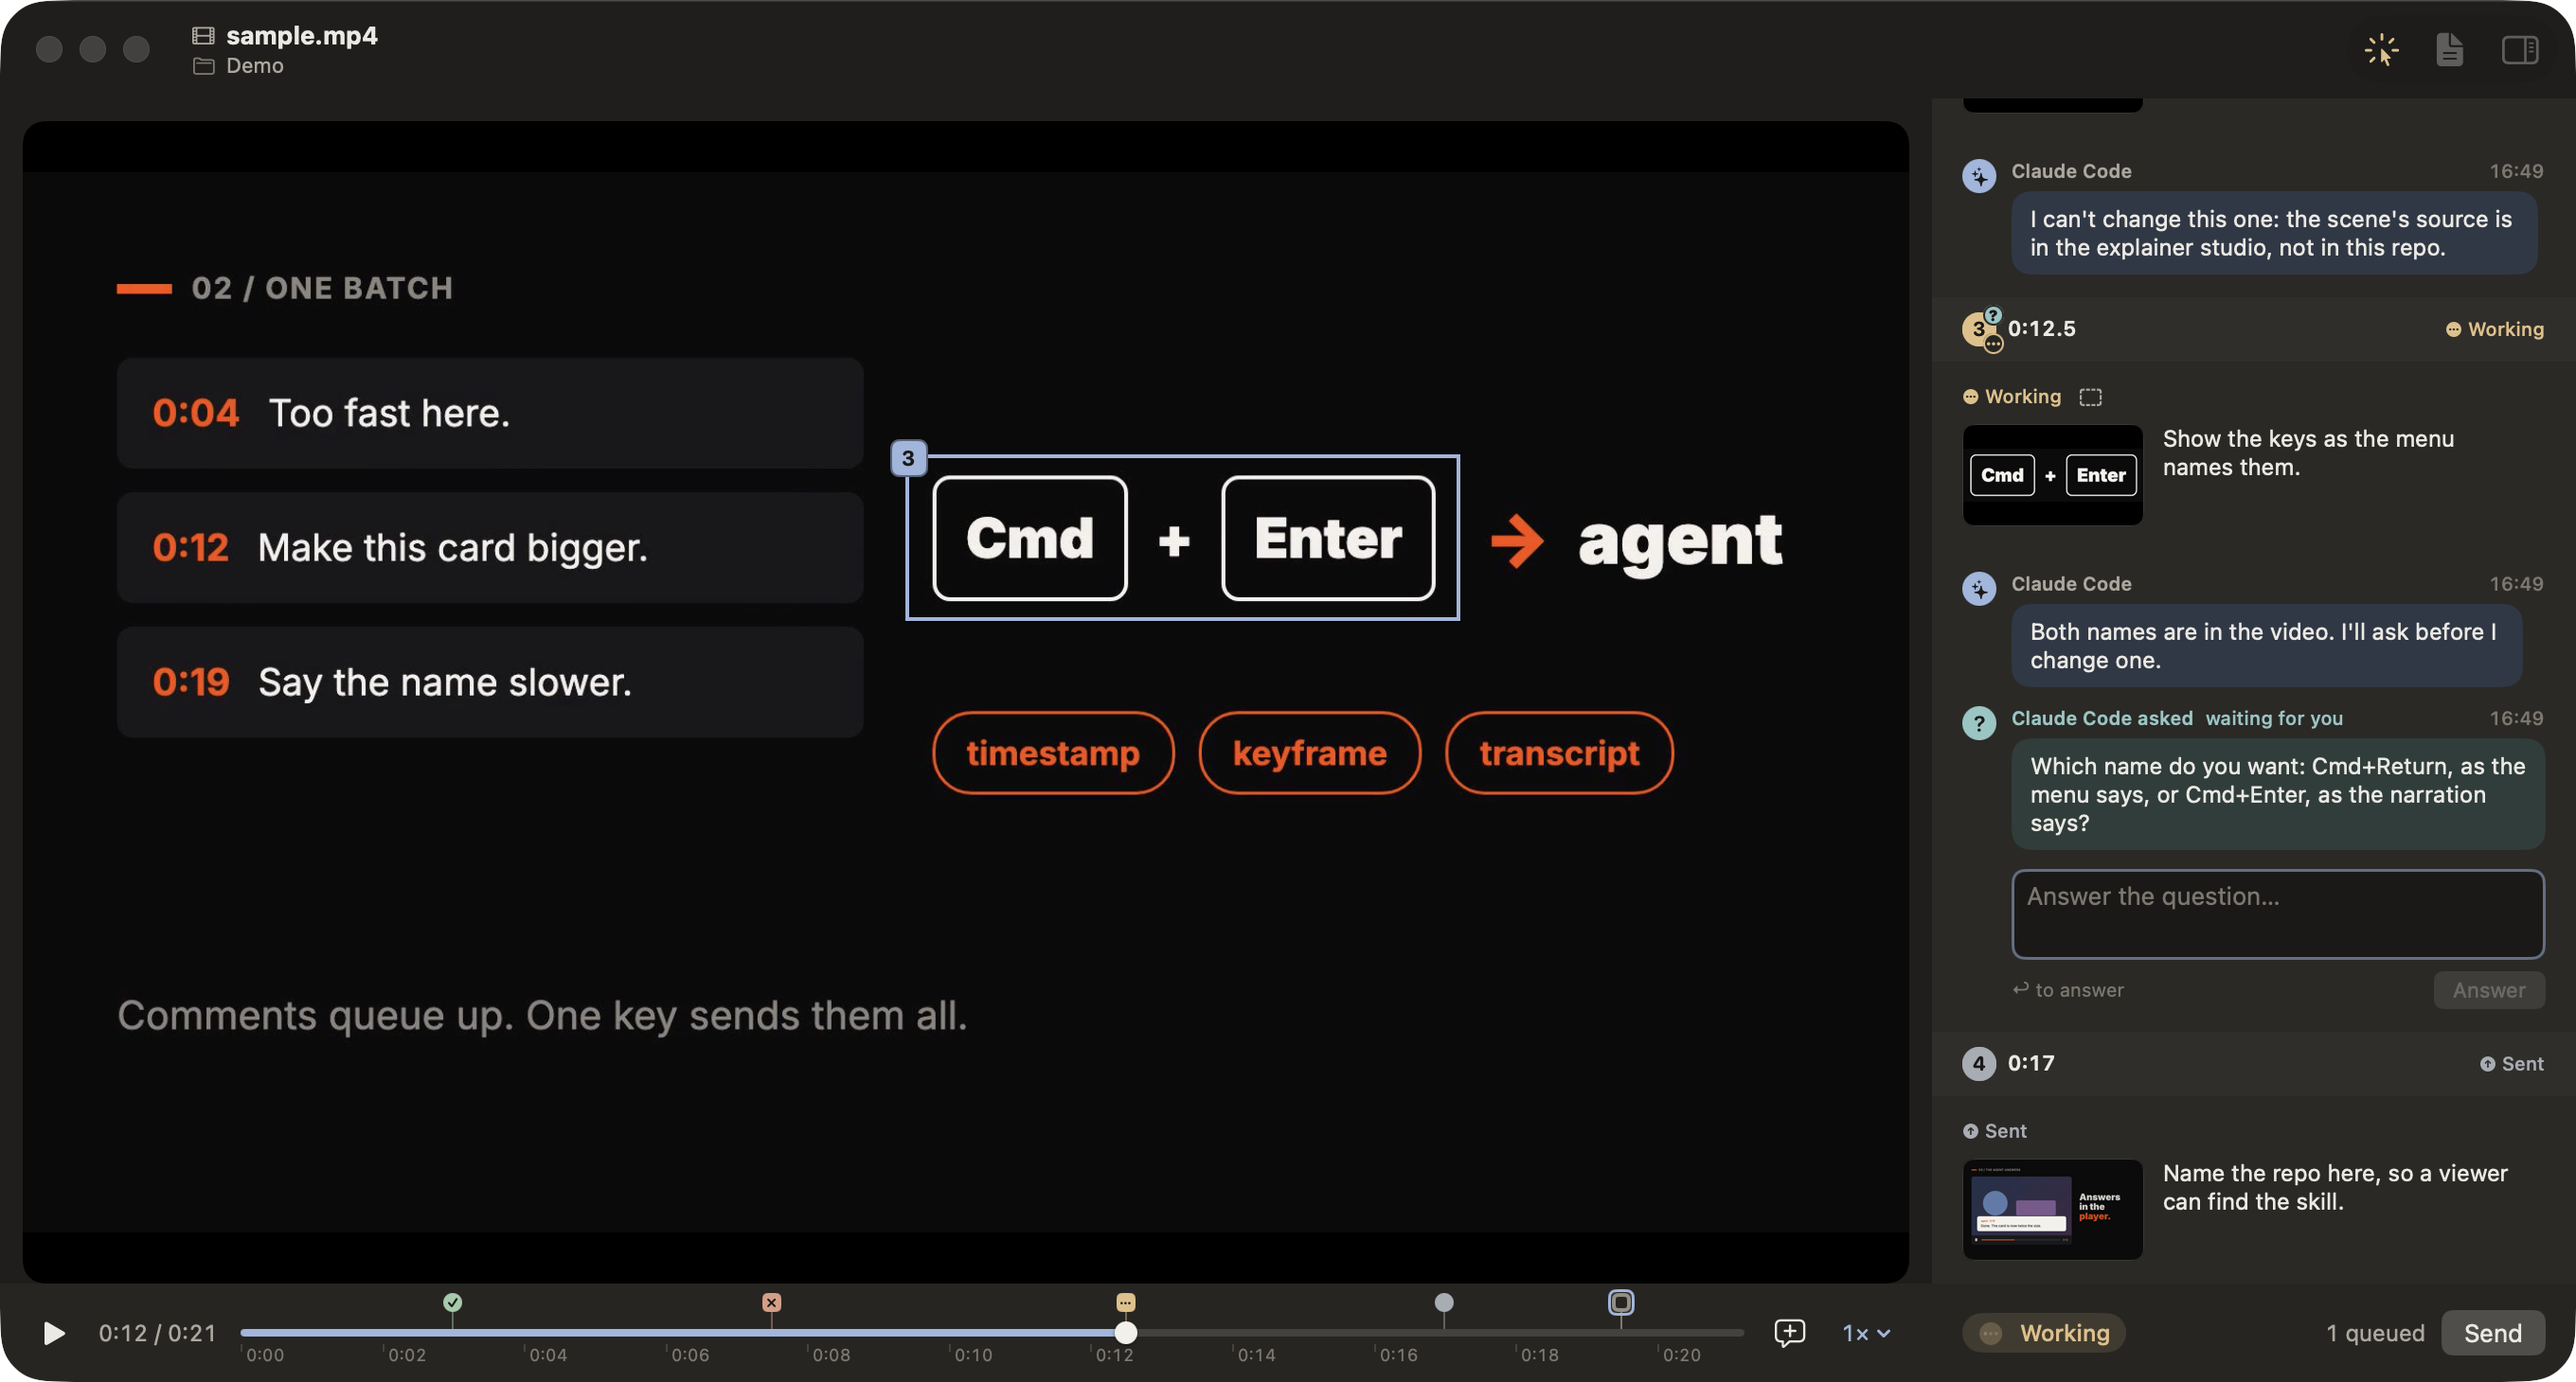
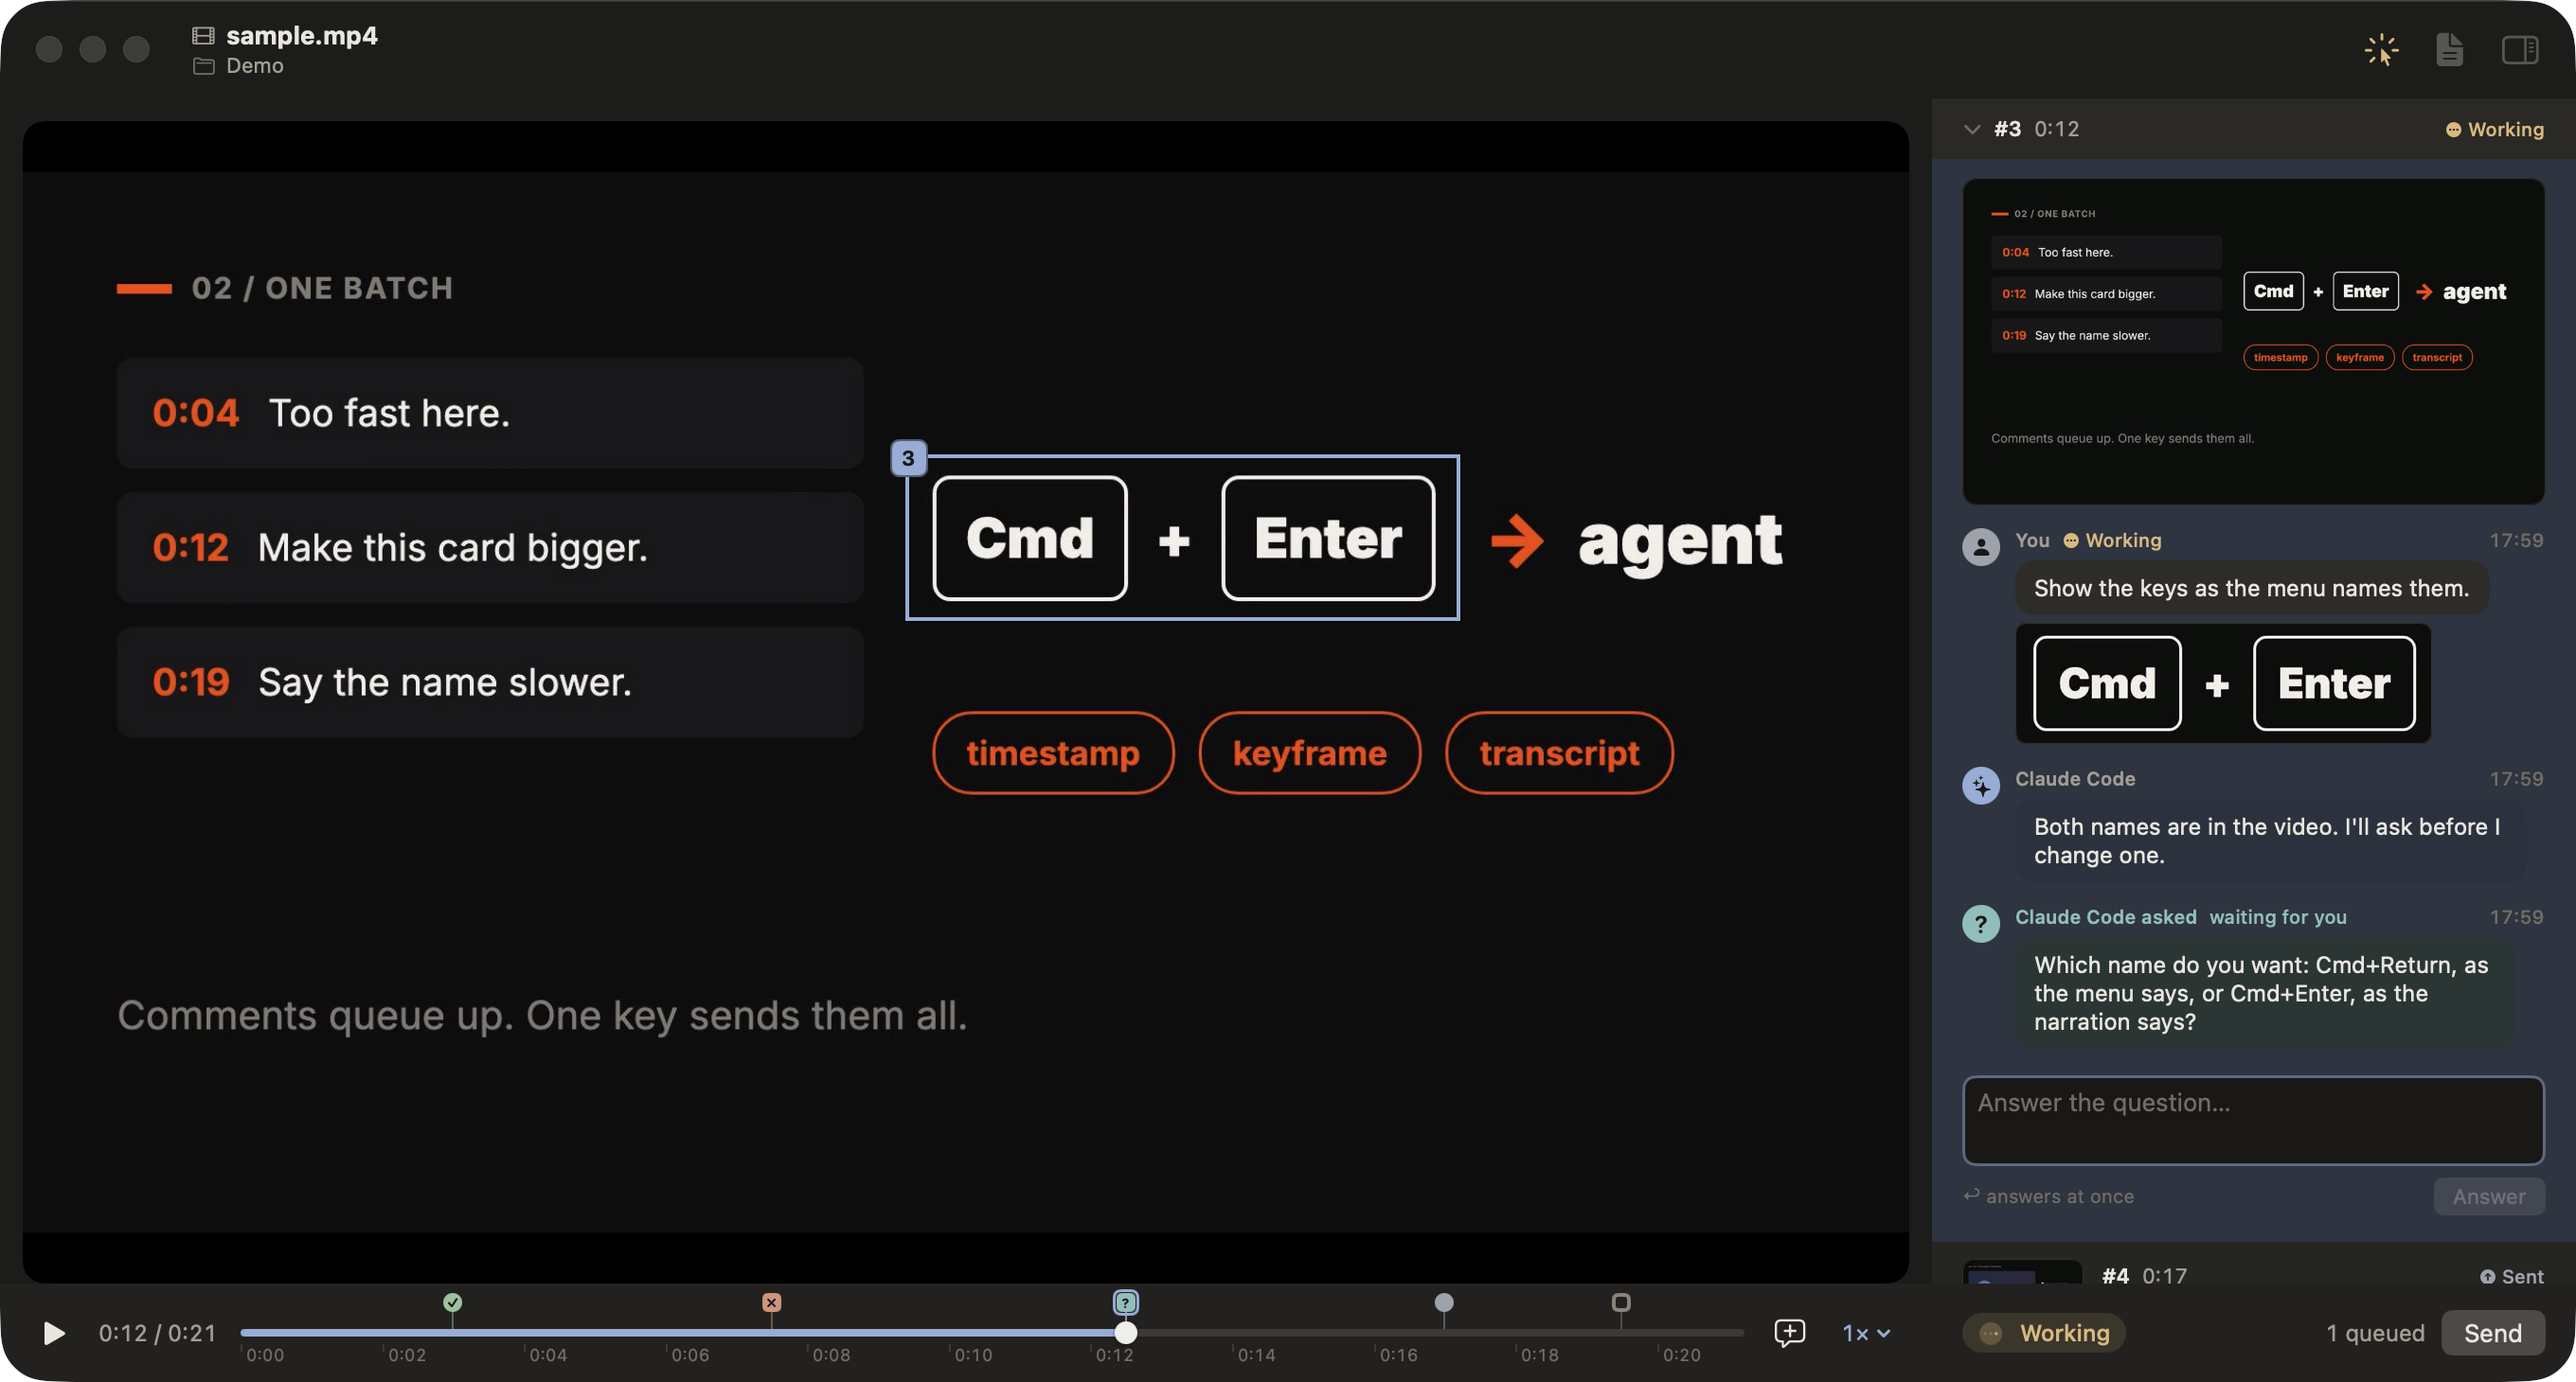
test(control): run the 0.1.0 acceptance scenario and regenerate the gallery
- run make acceptance on the finished build: all 10 steps pass; keep its light and dark pictures in assets/screenshots/0.1.0/acceptance/
- extend scripts/screenshots.sh: one run makes states/ in light and dark and themes/<slug>.png for every built-in theme on the threads scene with thread #3 expanded
- replace the 16 older theme pictures with the 11 new ones; drop header/empty-*, which states/empty-* shows unchanged
- take the comment popover at 1.5 s on the scene's title, not in a cross-fade
- fix a hang: pinning a light theme under a dark system could loop the app at full cpu, as an appkit view and swiftui set the window's appearance in turn; the window now takes a pinned theme's kind through preferredColorScheme
- bring the low-level design in line: the window's colour scheme in rootview, agentcontrolbutton, the screenshots script

Refs #33

Claude-Session: https://claude.ai/code/session_01J53NebLZcD9vziQZBFp4dk

Changed region(s): [[0.75, 0.0616, 1.0, 0.9247]]

diff --git a/Sources/ReviewApp/UI/Palette.swift b/Sources/ReviewApp/UI/Palette.swift
@@ -68,45 +68,3 @@ extension EnvironmentValues {
         set { self[PaletteKey.self] = newValue }
     }
 }
-
-/// Gives the window the appearance of a pinned theme's kind, so the title
-/// bar, the toolbar and the system's controls match a pinned theme that
-/// differs from the system appearance. With no pin (`kind` nil) the window
-/// inherits the app's appearance, which the theme follows already.
-struct WindowAppearance: NSViewRepresentable {
-    let kind: ThemeKind?
-
-    func makeNSView(context: Context) -> Probe {
-        Probe()
-    }
-
-    func updateNSView(_ view: Probe, context: Context) {
-        view.kind = kind
-    }
-
-    final class Probe: NSView {
-        var kind: ThemeKind? {
-            didSet { apply() }
-        }
-
-        override func viewDidMoveToWindow() {
-            super.viewDidMoveToWindow()
-            apply()
-        }
-
-        /// SwiftUI may set the window's appearance back when the app's
-        /// appearance changes (a screenshot in the other appearance): a
-        /// pinned kind is set again.
-        override func viewDidChangeEffectiveAppearance() {
-            super.viewDidChangeEffectiveAppearance()
-            apply()
-        }
-
-        private func apply() {
-            guard let window else { return }
-            let name: NSAppearance.Name? = kind.map { $0 == .dark ? .darkAqua : .aqua }
-            guard window.appearance?.name != name else { return }
-            window.appearance = name.flatMap(NSAppearance.init(named:))
-        }
-    }
-}

diff --git a/Sources/ReviewApp/UI/RootView.swift b/Sources/ReviewApp/UI/RootView.swift
@@ -1,3 +1,4 @@
+import ReviewCore
 import ReviewWire
 import SwiftUI
 
@@ -41,7 +42,13 @@ struct RootView: View {
         .tint(palette[.accent])
         .foregroundStyle(palette[.textPrimary])
         .background(palette[.window])
-        .background(WindowAppearance(kind: model.themes.pinned == nil ? nil : palette.theme.kind))
+        // A pinned theme's kind is the window's appearance, so the title
+        // bar, the toolbar and the system's controls match it when it
+        // differs from the system's. With no pin the window follows the
+        // app's appearance, which the theme follows already. SwiftUI sets
+        // the window's appearance on each update from this preference: an
+        // AppKit view that set it as well fought SwiftUI in a loop.
+        .preferredColorScheme(windowScheme(palette))
         // The window's title stays for the Window menu and VoiceOver; the
         // header draws its own, with icons.
         .navigationTitle(model.video?.title ?? AppIdentity.appName)
@@ -67,6 +74,12 @@ struct RootView: View {
         }
         // Last, so the toolbar and every popover read it too.
         .environment(\.palette, palette)
+    }
+
+    /// The window's colour scheme: a pinned theme's kind, else the app's.
+    private func windowScheme(_ palette: Palette) -> ColorScheme? {
+        guard model.themes.pinned != nil else { return nil }
+        return palette.theme.kind == .dark ? .dark : .light
     }
 
     /// Whether the agent-control icon is in the header: while an agent

diff --git a/docs/low-level-design.md b/docs/low-level-design.md
@@ -209,7 +209,7 @@ Makefile                           test, build, bundle, install, acceptance, cle
 Packaging/Info.plist               the bundle's template (name, bundle id, version stamped by make bundle)
 Packaging/Themes/                  Default Light.json, Default Dark.json, Dimmed.json (the defaults), eight themes from popular VS Code themes (docs/research/2026-10-05-popular-vs-code-themes.md) and NOTICE.md crediting them; copied to Contents/Resources/Themes/
 scripts/acceptance.sh              the 0.1.0 acceptance scenario, CLI only (#33)
-scripts/screenshots.sh             the scene of the pictures in assets/screenshots/0.1.0/
+scripts/screenshots.sh             the 0.1.0 gallery: states/ in light and dark, themes/ one per built-in theme (#33)
 .agents/skills/video-review-mate/  the listener skill (#27)
 fixtures/sample/                   the fixture video and its sidecars
 
@@ -298,9 +298,9 @@ Sources/
       ThemeReport.swift            the theme in `state`, `theme list` and `theme set`
       Screenshotter.swift          the app window through ScreenCaptureKit, in an appearance
     UI/
-      RootView.swift               stage, player bar, sidebar, header; injects the Palette; `SidebarColumn`: the
+      RootView.swift               stage, player bar, sidebar, header; injects the Palette; a pinned theme's kind as the window's colour scheme; `SidebarColumn`: the
                                    threads above the footer, resizable, the width kept in settings, proto-1's spring in and out
-      Palette.swift                the resolved tokens as SwiftUI colours, in the environment; the only way a view gets a colour; the window's appearance for a pinned theme
+      Palette.swift                the resolved tokens as SwiftUI colours, in the environment; the only way a view gets a colour
       Metrics.swift                measures: bar height (= footer height), paddings, sidebar limits; StateLook, a state's glyph and name
       QuietButtonStyle.swift       hover and press feedback for symbol buttons
       MessageEditor.swift          the one text view messages are written in, and its keys
@@ -603,10 +603,10 @@ public struct SupportLayout: Sendable {
 - `ReviewDesk.change(hash) { … }` is proto-2's one path for a change: load or take from memory, run, save, publish when open; a refusal or a failed save changes nothing.
 - `ListenerQueue` is proto-2's with sends: `enqueue`, `wait(by:timeout:connection:)` → `Outcome` (`send(ref, payload)`, `ranOut`, `replaced`, `gone`), `written`, `undelivered`, `isDelivered`, `connectionClosed`, `ack`, `status`, `reply`, `ask`, `answered`. A send is marked `taken` only once its reply was written (proto-1's in-flight rule): until then it is kept out of every other `wait`. `ack`, `reply` and `ask` hand a `Notice` to `AppModel`; `status` raises none.
 - `Notice` is `thread` (id and number), `agent`, `kind`, `words`, `expires` (5 s for every kind, a question too: the question stays open on its thread, L28). Its title is `#3 · Claude Code: …`, General's `General · Claude Code: …` (D 4.10). A click calls `openThread`, or expands General in the sidebar.
-- `ThemeDesk` holds the `ThemeCatalog`, the `Settings` and the system appearance, and publishes the `ResolvedTheme`. The system appearance is `NSApp.effectiveAppearance`, observed, so a screenshot in the other appearance shows that appearance's default theme. `DispatchSource`s on `Themes/`, each theme file and `settings.json` reload the themes 150 ms after a change (D 5.6); the watches are made again after each reload, since an editor that saves by replacing a file makes a new one. One more on the support folder catches a `settings.json` that appears for the first time or is replaced: it reloads only when the file's number or modification date differs from the last reload's, so the outbox's and the reviews' saves there read nothing. `startWatching` makes `Themes/`, so a person finds where their themes go. A theme or settings problem is written to standard error once. `Palette` turns the resolved tokens into `Color`s, reaches every view through the environment (`@Environment(\.palette)`), and is the only colour source a view has (D 5.1); a test in `ReviewAppTests` fails on a raw colour anywhere in `Sources/ReviewApp` outside `Palette.swift`. The letterbox is a token too. While a theme is pinned, the window takes its kind's appearance, so the title bar and the system's controls match; with no pin it inherits the app's. The View menu's Theme picker pins a theme or follows the system, as `theme set` does.
+- `ThemeDesk` holds the `ThemeCatalog`, the `Settings` and the system appearance, and publishes the `ResolvedTheme`. The system appearance is `NSApp.effectiveAppearance`, observed, so a screenshot in the other appearance shows that appearance's default theme. `DispatchSource`s on `Themes/`, each theme file and `settings.json` reload the themes 150 ms after a change (D 5.6); the watches are made again after each reload, since an editor that saves by replacing a file makes a new one. One more on the support folder catches a `settings.json` that appears for the first time or is replaced: it reloads only when the file's number or modification date differs from the last reload's, so the outbox's and the reviews' saves there read nothing. `startWatching` makes `Themes/`, so a person finds where their themes go. A theme or settings problem is written to standard error once. `Palette` turns the resolved tokens into `Color`s, reaches every view through the environment (`@Environment(\.palette)`), and is the only colour source a view has (D 5.1); a test in `ReviewAppTests` fails on a raw colour anywhere in `Sources/ReviewApp` outside `Palette.swift`. The letterbox is a token too. While a theme is pinned, the window takes its kind's appearance, so the title bar and the system's controls match; with no pin it inherits the app's. `RootView` sets it with `preferredColorScheme`, never on the `NSWindow` itself: SwiftUI sets the window's appearance on each update from that preference, and an AppKit view that set it as well fought SwiftUI in an endless update loop when a light theme was pinned under a dark system. The View menu's Theme picker pins a theme or follows the system, as `theme set` does.
 - `SocketListener` (D A.8, proto-1) accepts on `control.sock` (mode 0600) off the main actor, reads one request per connection, awaits `ControlServer.reply(to:)` in a task, and writes one space every 2 s while the answer is pending. A heartbeat that cannot be written tells the server the client hung up (`connectionClosed`), which ends a held `wait` or `ask` as `gone`. It then writes the reply; a reply that was written goes to the server as `written` (a send it carried is taken), and one that cannot be written as `undelivered` (L16). The heartbeat replaces proto-2's look at the connection every 0.5 s.
 - `ControlServer` only decodes, checks the lease, dispatches and keeps the queued `take`s. It owns the one `ControlLease` and settles it on a timer. It depends on the `AppControlling` protocol, which `AppModel` implements and the tests fake.
-- `AgentControlIcon` is the lease as the agent-control icon shows it. `AgentControl` is the icon, left of Context, only while an agent holds the lease, and its popover: who, where, time left, how many wait, Stop (D 4.7). The icon shows in screenshots unless `--hide-agent-indicator` (L10).
+- `AgentControlIcon` is the lease as the agent-control icon shows it. `AgentControlButton` (in `Header/AgentControl.swift`) is the icon, left of Context, only while an agent holds the lease, and its popover: who, where, time left, how many wait, Stop (D 4.7). The icon shows in screenshots unless `--hide-agent-indicator` (L10).
 - `StateReport` builds `state --json`:
 
 ```json
